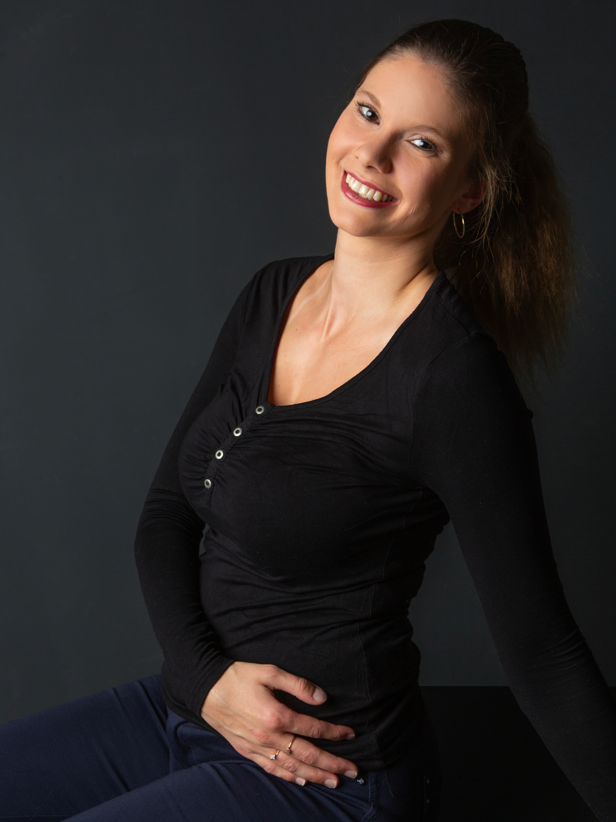
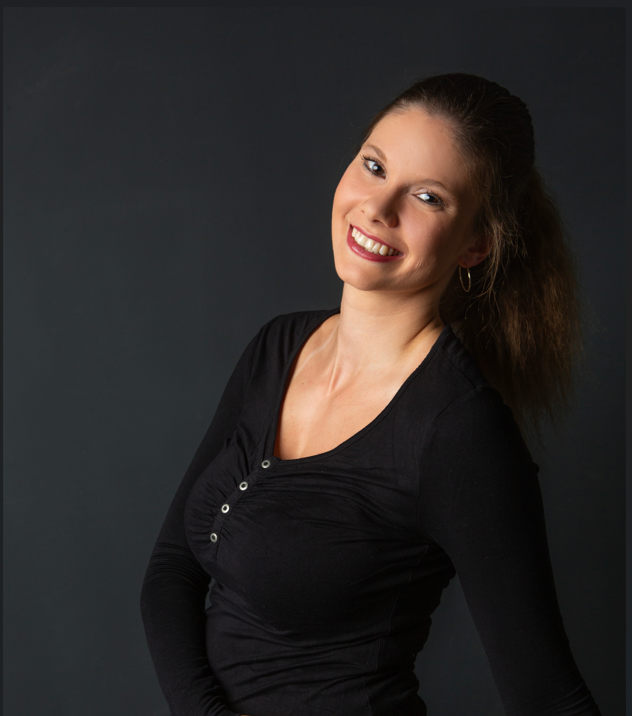
Bildergrößen

diff --git a/docs/gallery.html b/docs/gallery.html
@@ -69,7 +69,7 @@
     			 <div class="col-6 col-md-3">
  <div class="img-box">
      			   <a href="#headshot2" data-bs-toggle="modal" data-bs-target="#headshot2">
-     			     <img src="assets/Headshots25/9396a.png" class="img-fluid rounded shadow img-hover-effect" alt="Headshot 2025_2">
+     			     <img src="assets/Headshots25/9396b.png" class="img-fluid rounded shadow img-hover-effect" alt="Headshot 2025_2">
     			    </a>
 </div>
    			     <p class="mt-2 text-center">Studio Monbijou, 2025 </p>
@@ -153,7 +153,7 @@
     			  <div class="col-6 col-md-3 col-lg-4">
  <div class="img-box">
     			    <a href="headshot24_3" data-bs-toggle="modal" data-bs-target="#headshot24_3">
-     			     <img src="assets/Headshots24/DSC05942c.png" class="img-fluid rounded shadow img-hover-effect" alt="Headshots 2024_3">
+     			     <img src="assets/Headshots24/DSC05942d.png" class="img-fluid rounded shadow img-hover-effect" alt="Headshots 2024_3">
    			     </a>
 </div>
    			     <p class="mt-2 text-center">Selenophile Art, 2024</p>
